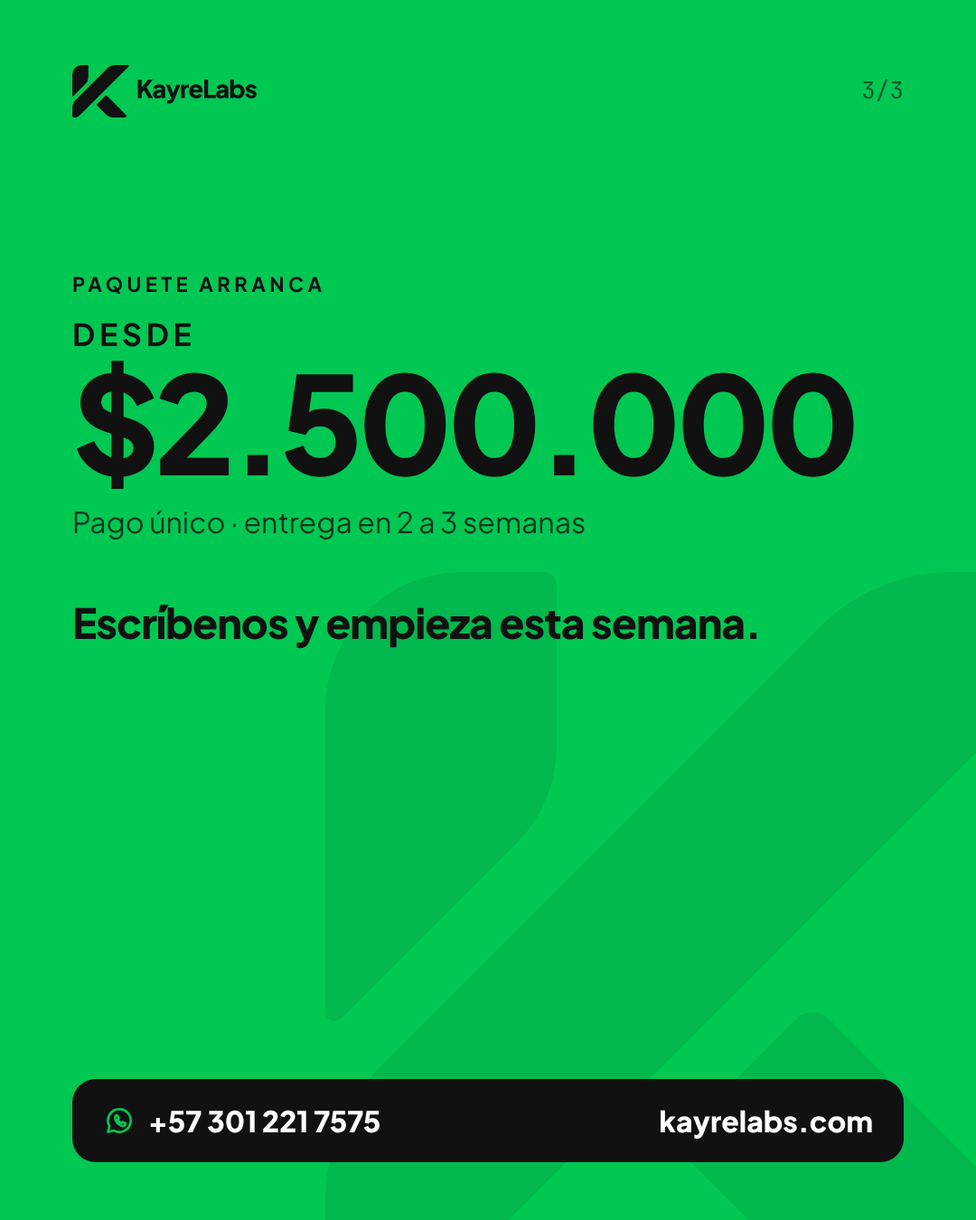
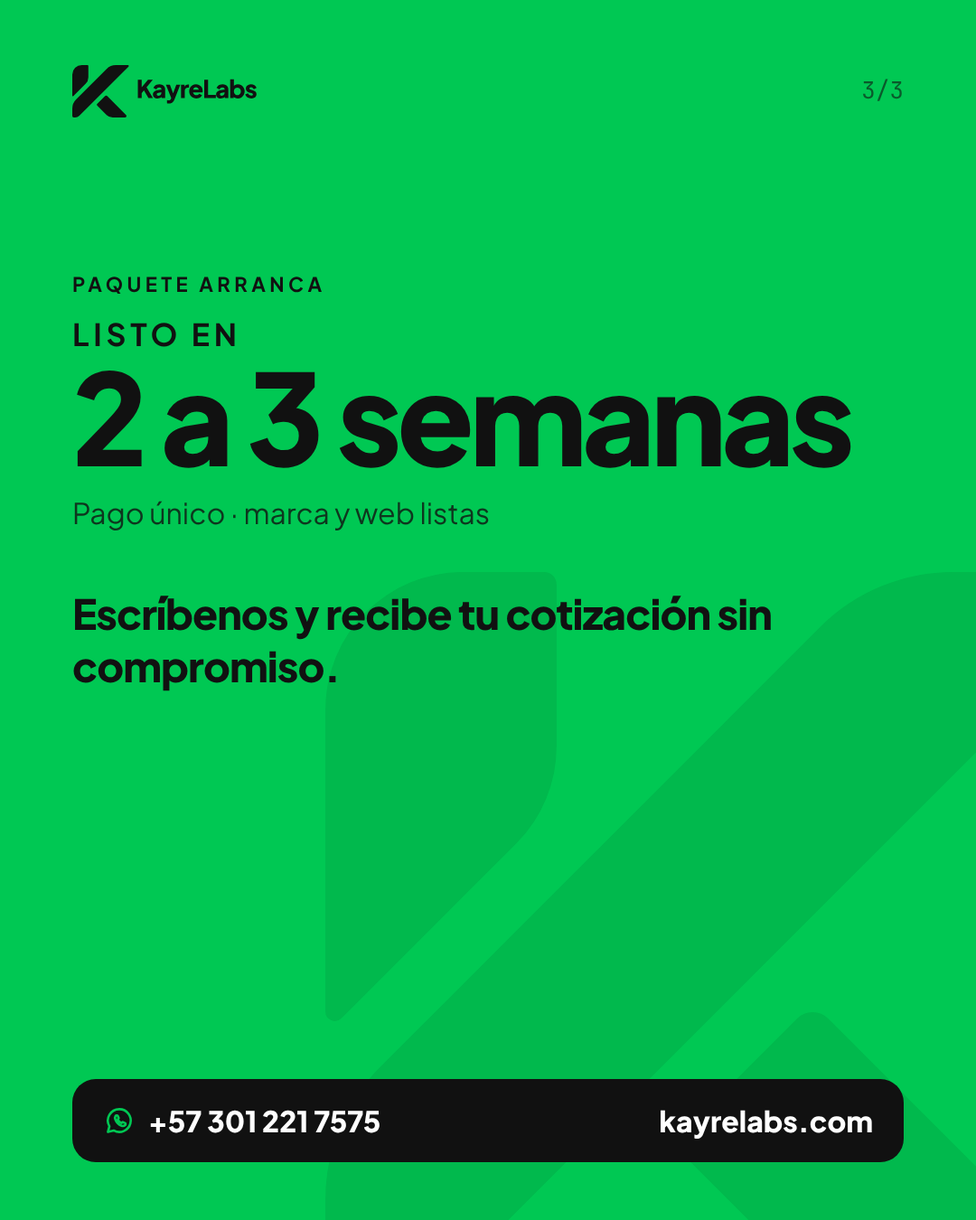
Precios privados: fuera del sitio, de las piezas de redes y del repositorio
- Paquetes y plataformas muestran tiempos de entrega y "cotiza sin
  compromiso" en lugar de montos.
- Piezas de redes, carruseles, historia e imágenes para compartir
  regeneradas sin precios.
- Se retira docs/oferta-comercial.md del repositorio público.

Claude-Session: https://claude.ai/code/session_01QGabQDkz8HkBDnq2V441rF

Changed region(s): [[0.0611, 0.2489, 0.8861, 0.4356], [0.0611, 0.4667, 0.7944, 0.56]]

diff --git a/scripts/graficos.js b/scripts/graficos.js
@@ -92,11 +92,11 @@ const fotosTienda = (tam) => ["gatos-sabiduria", "llaveros-calavera", "gatos-ena
 const OGS = {
   "og-image": og({ etiqueta: "Software · Impresión 3D · Electrónica", titulo: 'Software y productos <span class="verde">a la medida</span> de tu negocio',
     texto: "Marca, web y software para pymes y empresas. Piezas, domótica e IoT con impresión 3D.",
-    chips: [["tienda", "Paquetes desde $2.500.000"], ["check", "Demos en vivo"]],
+    chips: [["tienda", "Paquetes para pymes"], ["check", "Demos en vivo"]],
     arte: `<img src="${a("assets/ilustraciones/inicio.svg")}" style="width:540px">` }),
   "og-desarrollo": og({ etiqueta: "Desarrollo", titulo: 'Marca, web y software para tu <span class="verde">negocio</span>',
     texto: "Paquetes para pymes y aplicativos robustos para empresas.",
-    chips: [["tienda", "Desde $2.500.000"], ["empresa", "Para empresas"]],
+    chips: [["tienda", "Para pymes"], ["empresa", "Para empresas"]],
     arte: `<img src="${f(SAL + "/web/ecommerce-mockup.png")}" style="width:540px;margin-right:-30px">` }),
   "og-productos": og({ etiqueta: "Productos", titulo: 'Impresión 3D, domótica e <span class="verde">IoT</span>',
     texto: "Piezas a medida, kits para conectar tu casa y automatización para tu negocio.",
@@ -138,13 +138,13 @@ li { display: flex; gap: 16px; align-items: center; }
 `;
 
 const PAQ = {
-  arranca: { nombre: "Arranca", para: "Para el negocio que empieza", precio: "$2.500.000", nota: "Pago único · entrega en 2 a 3 semanas", oscuro: false,
+  arranca: { nombre: "Arranca", para: "Para el negocio que empieza", precio: "2 a 3 semanas", nota: "Pago único · cotiza sin compromiso", oscuro: false,
     incluye: ["Logo, paleta y tipografía", "Manual básico de marca", "Página web de 1 a 5 secciones", "Botón de WhatsApp y redes"],
     arte: `<div style="display:flex;align-items:center;justify-content:center;width:300px;height:300px;border-radius:70px;background:#e8faf0">${ico("bombillo", 170, "#00c853")}</div>` },
-  vende: { nombre: "Vende", para: "Para vender en línea", precio: "$3.600.000", nota: "+ mensualidad desde $150.000 · 4 a 6 semanas", oscuro: true, sello: "Recomendado",
+  vende: { nombre: "Vende", para: "Para vender en línea", precio: "4 a 6 semanas", nota: "Implementación + mensualidad · cotiza sin compromiso", oscuro: true, sello: "Recomendado",
     incluye: ["Marca + kit de 10 piezas para redes", "Tienda en línea con panel", "Pagos con Wompi y factura electrónica", "Carga de hasta 50 productos"],
     arte: `<img src="${f(SAL + "/web/ecommerce-mockup.png")}" style="width:700px;margin-right:-100px">` },
-  fideliza: { nombre: "Fideliza", para: "Para que tus clientes vuelvan", precio: "$4.100.000", nota: "+ piezas NFC y mensualidad · 4 a 6 semanas", oscuro: true,
+  fideliza: { nombre: "Fideliza", para: "Para que tus clientes vuelvan", precio: "4 a 6 semanas", nota: "Implementación + piezas NFC + mensualidad", oscuro: true,
     incluye: ["Todo lo del paquete Vende", "Enlace NFC con 10 piezas en 3D", "Pagos por Nequi, Daviplata y Bre-B", "Sellos de fidelización en caja"],
     arte: `<img src="${f(SAL + "/web/enlace-nfc-mockup.png")}" style="width:700px;margin-right:-100px">` },
 };
@@ -159,7 +159,7 @@ body { width: 1080px; height: 1350px; } .pieza { height: 1350px; }
 <p class="etq">Paquete para pymes</p>
 <h1>${p.nombre}</h1>
 <p class="sub">${p.para}</p>
-<div class="precio"><small>Desde</small><strong>${p.precio}</strong></div>
+<div class="precio"><small>Entrega</small><strong>${p.precio}</strong></div>
 <p class="nota">${p.nota}</p>
 <ul>${p.incluye.map((x) => `<li>${ico("check", 34, p.oscuro ? "#00c853" : "#007a33")} ${x}</li>`).join("")}</ul>
 </div>
@@ -190,7 +190,7 @@ body { width: 1080px; height: 1350px; } .pieza { height: 1350px; }
 <img class="logo" src="${LOGO_NEG}">
 <div style="margin-top:46px"><h2>Lo digital y lo físico <span class="verde">en un solo lugar</span></h2></div>
 <div class="ramas">
-<div class="rama"><img src="${a("assets/ilustraciones/desarrollo.svg")}"><div><p class="etq">Desarrollo</p><h3>Marca, web y software para tu negocio</h3><p>Paquetes para pymes desde $2.500.000 y aplicativos para empresas.</p></div></div>
+<div class="rama"><img src="${a("assets/ilustraciones/desarrollo.svg")}"><div><p class="etq">Desarrollo</p><h3>Marca, web y software para tu negocio</h3><p>Paquetes para pymes y aplicativos para empresas.</p></div></div>
 <div class="rama"><img src="${a("assets/ilustraciones/impresion-3d.svg")}"><div><p class="etq">Productos</p><h3>Impresión 3D, domótica e IoT</h3><p>Piezas a medida, kits para tu casa y automatización para tu negocio.</p></div></div>
 </div>
 ${pieRed(true)}
@@ -208,9 +208,9 @@ body { width: 1080px; height: 1920px; } .pieza { height: 1920px; padding: 110px 
 <h1 style="font-size:96px">Software y productos <span class="verde">a la medida</span></h1>
 <p class="sub">Marca, página y tienda en línea para tu negocio.</p>
 <div class="lista">
-<div class="fila"><strong>Arranca</strong><span>desde <b>$2,5 M</b></span></div>
-<div class="fila dest"><strong>Vende</strong><span>desde <b>$3,6 M</b></span></div>
-<div class="fila"><strong>Fideliza</strong><span>desde <b>$4,1 M</b></span></div>
+<div class="fila"><strong>Arranca</strong><span><b>Marca + web</b></span></div>
+<div class="fila dest"><strong>Vende</strong><span><b>Tienda en línea</b></span></div>
+<div class="fila"><strong>Fideliza</strong><span><b>Tienda + NFC</b></span></div>
 </div>
 ${pieRed(true)}
 </div></body></html>`;
@@ -239,7 +239,7 @@ const v2 = {
 <p class="etq" style="color:#111">Paquete Arranca</p>
 <h1 style="font-size:112px">¿Tu negocio aún no tiene página web?</h1>
 <p class="sub" style="color:rgba(17,17,17,.8);max-width:820px">Marca + página web con WhatsApp, listas en 2 a 3 semanas.</p>
-<div class="precio-chip"><small>Desde</small><strong>$2.500.000</strong></div>
+<div class="precio-chip"><small>Cotiza</small><strong>sin compromiso</strong></div>
 </div>
 ${pieRed(false)}
 </div></body></html>`,
@@ -251,7 +251,7 @@ ${pieRed(false)}
 <p class="etq">Paquete Vende</p>
 <h1 style="font-size:96px">Vende 24/7 desde tu propia tienda</h1>
 <p class="sub">Sin depender de un marketplace. Con pagos Wompi y factura electrónica.</p>
-<div class="precio-chip"><small>Desde</small><strong>$3,6 M</strong></div>
+<div class="precio-chip"><small>Cotiza</small><strong>gratis</strong></div>
 </div>
 ${pieRed(false)}
 </div></body></html>`,
@@ -266,7 +266,7 @@ ${pieRed(false)}
 <p class="etq">Paquete Fideliza</p>
 <h1 style="font-size:96px">Un toque y tu cliente <span class="verde">suma un sello</span></h1>
 <p class="sub">Piezas NFC impresas en 3D con tu tarjeta digital y fidelización.</p>
-<div class="precio-chip" style="background:#00c853;color:#111"><small>Desde</small><strong style="color:#111">$4,1 M</strong></div>
+<div class="precio-chip" style="background:#00c853;color:#111"><small>Cotiza</small><strong style="color:#111">gratis</strong></div>
 </div>
 ${pieRed(true)}
 </div></body></html>`,
@@ -275,13 +275,13 @@ ${pieRed(true)}
 const CAR = {
   arranca: { nombre: "Arranca", gancho: 'Tu negocio merece <span class="verde">verse profesional</span>', icono: "bombillo",
     incluye: [["diseno", "Logo, paleta y tipografía"], ["capas", "Manual básico de marca"], ["desarrollo", "Página web de 1 a 5 secciones"], ["whatsapp", "Botón de WhatsApp y redes"]],
-    precio: "$2.500.000", nota: "Pago único · entrega en 2 a 3 semanas" },
+    precio: "2 a 3 semanas", nota: "Pago único · marca y web listas" },
   vende: { nombre: "Vende", gancho: 'Tu tienda en línea <span class="verde">en 4 a 6 semanas</span>', icono: "tienda",
     incluye: [["diseno", "Marca + 10 piezas para redes"], ["tienda", "Tienda con panel de administración"], ["check", "Pagos Wompi y factura electrónica"], ["capas", "Carga de hasta 50 productos"]],
-    precio: "$3.600.000", nota: "+ mensualidad desde $150.000" },
+    precio: "4 a 6 semanas", nota: "Implementación + mensualidad de hosting y soporte" },
   fideliza: { nombre: "Fideliza", gancho: 'Clientes que vuelven, <span class="verde">con un toque NFC</span>', icono: "nfc",
     incluye: [["tienda", "Todo lo del paquete Vende"], ["impresion-3d", "10 piezas NFC impresas en 3D"], ["celular", "Pagos Nequi, Daviplata y Bre-B"], ["nfc", "Sellos canjeables en caja"]],
-    precio: "$4.100.000", nota: "+ piezas NFC y mensualidad" },
+    precio: "4 a 6 semanas", nota: "Implementación + piezas NFC + mensualidad" },
 };
 const CAR_CSS = `body { width: 1080px; height: 1350px; } .pieza { height: 1350px; }
 .contador { position: absolute; right: 80px; top: 82px; font-family: "JBM", monospace; font-size: 26px; color: rgba(255,255,255,.6); }
@@ -303,10 +303,10 @@ const carrusel = (c) => [
   `<!doctype html><html><head><style>${BASE}${RED_CSS}${CAR_CSS}${V2_CSS}</style></head><body><div class="pieza verde-fondo" style="position:relative">
 <img class="logo" src="${LOGO_MONO}"><span class="contador" style="color:rgba(17,17,17,.6)">3/3</span>
 <div style="margin-top:170px"><p class="etq" style="color:#111">Paquete ${c.nombre}</p>
-<p style="font-size:34px;font-weight:700;letter-spacing:.14em;text-transform:uppercase">Desde</p>
-<h1 style="font-size:150px">${c.precio}</h1>
+<p style="font-size:34px;font-weight:700;letter-spacing:.14em;text-transform:uppercase">Listo en</p>
+<h1 style="font-size:140px">${c.precio}</h1>
 <p class="sub" style="color:rgba(17,17,17,.8)">${c.nota}</p>
-<p style="font-size:46px;font-weight:800;margin-top:60px;letter-spacing:-.02em">Escríbenos y empieza esta semana.</p></div>
+<p style="font-size:46px;font-weight:800;margin-top:60px;letter-spacing:-.02em">Escríbenos y recibe tu cotización sin compromiso.</p></div>
 ${pieRed(false)}</div></body></html>`,
 ];
 

diff --git a/public/desarrollo.html b/public/desarrollo.html
@@ -4,7 +4,7 @@
   <meta charset="UTF-8">
   <meta name="viewport" content="width=device-width, initial-scale=1">
   <title>Desarrollo — Marca, web y software para tu negocio | KayreLabs</title>
-  <meta name="description" content="Paquetes con precio para pymes (marca, web y tienda en línea) y aplicativos para empresas: garantías, ofertas y desarrollo a la medida.">
+  <meta name="description" content="Paquetes para pymes (marca, web y tienda en línea) y aplicativos para empresas: garantías, ofertas y desarrollo a la medida.">
   <meta name="theme-color" content="#ffffff">
   <link rel="icon" href="favicon.ico" sizes="48x48">
   <link rel="icon" href="assets/brand/favicon.svg" type="image/svg+xml">
@@ -13,7 +13,7 @@
   <meta property="og:type" content="website">
   <meta property="og:site_name" content="KayreLabs">
   <meta property="og:title" content="Desarrollo — Marca, web y software para tu negocio | KayreLabs">
-  <meta property="og:description" content="Paquetes con precio para pymes (marca, web y tienda en línea) y aplicativos para empresas: garantías, ofertas y desarrollo a la medida.">
+  <meta property="og:description" content="Paquetes para pymes (marca, web y tienda en línea) y aplicativos para empresas: garantías, ofertas y desarrollo a la medida.">
   <meta property="og:image" content="https://www.kayrelabs.com/assets/brand/og-desarrollo.png">
   <meta name="twitter:card" content="summary_large_image">
   <link rel="preload" href="assets/fonts/plus-jakarta-sans-latin-wght-normal.woff2" as="font" type="font/woff2" crossorigin>
@@ -48,7 +48,7 @@
         <div class="col-lg-6">
           <p class="etiqueta"><span class="icono i-desarrollo" aria-hidden="true"></span> Desarrollo</p>
           <h1>Marca, web y software para que tu negocio <span class="verde">crezca</span></h1>
-          <p class="lead">Paquetes con precio claro para pymes y emprendedores, y aplicativos robustos para las operaciones de grandes empresas.</p>
+          <p class="lead">Paquetes listos para pymes y emprendedores, y aplicativos robustos para las operaciones de grandes empresas.</p>
           <ul class="lab-chips">
             <li><a href="#pymes"><span class="icono i-tienda" aria-hidden="true"></span> Pymes y emprendedores</a></li>
             <li><a href="#empresas"><span class="icono i-empresa" aria-hidden="true"></span> Empresas</a></li>
@@ -70,7 +70,7 @@
       <div class="container">
         <p class="etiqueta"><span class="icono i-tienda" aria-hidden="true"></span> Pymes y emprendedores</p>
         <h2 class="titulo-seccion">Paquetes listos para arrancar</h2>
-        <p class="subtitulo-seccion mb-5">Marca, página y software en un solo paquete, con precio desde el primer día. Después de la entrega te acompañamos con hosting, soporte y ajustes.</p>
+        <p class="subtitulo-seccion mb-5">Marca, página y software en un solo paquete, con alcance y tiempos claros desde el primer día. Después de la entrega te acompañamos con hosting, soporte y ajustes.</p>
         <div class="row g-4 pt-lg-2">
           <div class="col-md-6 col-lg-4">
             <article class="plan">
@@ -79,8 +79,8 @@
                 <span class="icono-caja"><span class="icono i-bombillo" aria-hidden="true"></span></span>
                 <div><h3>Arranca</h3><p class="plan-para">Para el negocio que empieza</p></div>
               </div>
-              <p class="precio"><small>Desde</small><strong>$2.500.000</strong></p>
-              <p class="precio-nota">Pago único · entrega en 2 a 3 semanas</p>
+              <p class="precio"><small>Entrega</small><strong>2 a 3 semanas</strong></p>
+              <p class="precio-nota">Pago único</p>
               <ul>
                 <li><span class="icono i-check" aria-hidden="true"></span><span>Logo, paleta y tipografía</span></li>
                 <li><span class="icono i-check" aria-hidden="true"></span><span>Manual básico de marca</span></li>
@@ -97,8 +97,8 @@
                 <span class="icono-caja"><span class="icono i-tienda" aria-hidden="true"></span></span>
                 <div><h3>Vende</h3><p class="plan-para">Para vender en línea</p></div>
               </div>
-              <p class="precio"><small>Desde</small><strong>$3.600.000</strong></p>
-              <p class="precio-nota">+ mensualidad desde $150.000 · 4 a 6 semanas</p>
+              <p class="precio"><small>Entrega</small><strong>4 a 6 semanas</strong></p>
+              <p class="precio-nota">Implementación + mensualidad de hosting y soporte</p>
               <ul>
                 <li><span class="icono i-check" aria-hidden="true"></span><span>Marca completa (todo lo de Arranca)</span></li>
                 <li><span class="icono i-check" aria-hidden="true"></span><span>Kit de 10 piezas para redes</span></li>
@@ -116,8 +116,8 @@
                 <span class="icono-caja"><span class="icono i-nfc" aria-hidden="true"></span></span>
                 <div><h3>Fideliza</h3><p class="plan-para">Para que tus clientes vuelvan</p></div>
               </div>
-              <p class="precio"><small>Desde</small><strong>$4.100.000</strong></p>
-              <p class="precio-nota">+ piezas NFC y mensualidad · 4 a 6 semanas</p>
+              <p class="precio"><small>Entrega</small><strong>4 a 6 semanas</strong></p>
+              <p class="precio-nota">Implementación + piezas NFC + mensualidad</p>
               <ul>
                 <li><span class="icono i-check" aria-hidden="true"></span><span>Todo lo de Vende</span></li>
                 <li><span class="icono i-check" aria-hidden="true"></span><span>Enlace NFC con 10 piezas impresas en 3D</span></li>
@@ -128,7 +128,7 @@
             </article>
           </div>
         </div>
-        <p class="nota-precios">Precios en pesos colombianos, sin IVA. Las plataformas también se contratan por separado.</p>
+        <p class="nota-precios">Cada paquete se cotiza según tu negocio, sin compromiso. Las plataformas también se contratan por separado.</p>
       </div>
     </section>
 
@@ -136,7 +136,7 @@
       <div class="container">
         <p class="etiqueta">También por separado</p>
         <h2 class="titulo-seccion">Plataformas listas para tu negocio</h2>
-        <p class="subtitulo-seccion mb-5">Software probado que adaptamos a tu marca. Se paga una implementación y una mensualidad que cubre hosting, soporte y actualizaciones.</p>
+        <p class="subtitulo-seccion mb-5">Software probado que adaptamos a tu marca: una implementación y una mensualidad que cubre hosting, soporte y actualizaciones.</p>
         <div class="row g-4">
           <div class="col-md-6">
             <article class="producto">
@@ -150,7 +150,7 @@
                   <li><span class="icono i-check" aria-hidden="true"></span><span>Pagos con Wompi y factura electrónica</span></li>
                   <li><span class="icono i-check" aria-hidden="true"></span><span>Carga de hasta 50 productos y capacitación</span></li>
                 </ul>
-                <p class="producto-precio"><strong>Implementación desde $1.750.000</strong>+ mensualidad desde $150.000 (hosting, soporte y actualizaciones)</p>
+                <p class="producto-precio"><strong>Implementación + mensualidad</strong>La mensualidad cubre hosting, soporte y actualizaciones</p>
                 <div class="producto-acciones">
                   <a class="btn btn-primary btn-sm" href="contacto.html" data-whatsapp="Hola KayreLabs, me interesa Plataforma Ecommerce">Cotizar <span class="icono i-flecha" aria-hidden="true"></span></a>
                   <a class="btn btn-outline-dark btn-sm" href="https://ecommerce-demo.kayrelabs.com/" target="_blank" rel="noopener">Ver demo ↗</a>
@@ -314,7 +314,7 @@
       </div>
       <div class="pie-base">
         <span>© <span id="anio"></span> KayreLabs · <a href="marca.html">Identidad de marca</a></span>
-        <span>Precios en pesos colombianos, sin IVA</span>
+        <span>Minimalista · Adaptable · Futura</span>
       </div>
     </div>
   </footer>

diff --git a/public/index.html b/public/index.html
@@ -78,7 +78,7 @@
               <img class="rama-arte" src="assets/ilustraciones/desarrollo.svg" alt="" width="480" height="420" loading="lazy">
               <p class="etiqueta"><span class="icono i-desarrollo" aria-hidden="true"></span> Desarrollo</p>
               <h3>Marca, web y software para tu negocio</h3>
-              <p>Paquetes con precio claro para pymes y aplicativos robustos para empresas.</p>
+              <p>Paquetes para pymes y aplicativos robustos para empresas.</p>
               <ul class="rama-lista">
                 <li><span class="icono i-check" aria-hidden="true"></span><span>Paquetes para pymes y emprendedores</span></li>
                 <li><span class="icono i-check" aria-hidden="true"></span><span>Plataformas listas: Ecommerce y Enlace NFC</span></li>
@@ -110,8 +110,8 @@
         <div class="cabecera-seccion">
           <div>
             <p class="etiqueta">Pymes y emprendedores</p>
-            <h2 class="titulo-seccion">Paquetes con precio claro</h2>
-            <p class="subtitulo-seccion">Elige por dónde empezar. Cada paquete incluye la marca, la página y el software que necesita esa etapa de tu negocio.</p>
+            <h2 class="titulo-seccion">Paquetes listos para tu negocio</h2>
+            <p class="subtitulo-seccion">Elige por dónde empezar. Cada paquete incluye la marca, la página y el software que necesita esa etapa de tu negocio. Te enviamos la cotización por WhatsApp.</p>
           </div>
           <a class="enlace-mas" href="desarrollo.html#pymes">Ver todos los detalles <span class="icono i-flecha" aria-hidden="true"></span></a>
         </div>
@@ -123,8 +123,8 @@
                 <span class="icono-caja"><span class="icono i-bombillo" aria-hidden="true"></span></span>
                 <div><h3>Arranca</h3><p class="plan-para">Para el negocio que empieza</p></div>
               </div>
-              <p class="precio"><small>Desde</small><strong>$2.500.000</strong></p>
-              <p class="precio-nota">Pago único · entrega en 2 a 3 semanas</p>
+              <p class="precio"><small>Entrega</small><strong>2 a 3 semanas</strong></p>
+              <p class="precio-nota">Pago único</p>
               <ul>
                 <li><span class="icono i-check" aria-hidden="true"></span><span>Logo, paleta y tipografía</span></li>
                 <li><span class="icono i-check" aria-hidden="true"></span><span>Manual básico de marca</span></li>
@@ -141,8 +141,8 @@
                 <span class="icono-caja"><span class="icono i-tienda" aria-hidden="true"></span></span>
                 <div><h3>Vende</h3><p class="plan-para">Para vender en línea</p></div>
               </div>
-              <p class="precio"><small>Desde</small><strong>$3.600.000</strong></p>
-              <p class="precio-nota">+ mensualidad desde $150.000 · 4 a 6 semanas</p>
+              <p class="precio"><small>Entrega</small><strong>4 a 6 semanas</strong></p>
+              <p class="precio-nota">Implementación + mensualidad de hosting y soporte</p>
               <ul>
                 <li><span class="icono i-check" aria-hidden="true"></span><span>Marca completa (todo lo de Arranca)</span></li>
                 <li><span class="icono i-check" aria-hidden="true"></span><span>Kit de 10 piezas para redes</span></li>
@@ -160,8 +160,8 @@
                 <span class="icono-caja"><span class="icono i-nfc" aria-hidden="true"></span></span>
                 <div><h3>Fideliza</h3><p class="plan-para">Para que tus clientes vuelvan</p></div>
               </div>
-              <p class="precio"><small>Desde</small><strong>$4.100.000</strong></p>
-              <p class="precio-nota">+ piezas NFC y mensualidad · 4 a 6 semanas</p>
+              <p class="precio"><small>Entrega</small><strong>4 a 6 semanas</strong></p>
+              <p class="precio-nota">Implementación + piezas NFC + mensualidad</p>
               <ul>
                 <li><span class="icono i-check" aria-hidden="true"></span><span>Todo lo de Vende</span></li>
                 <li><span class="icono i-check" aria-hidden="true"></span><span>Enlace NFC con 10 piezas impresas en 3D</span></li>
@@ -172,7 +172,7 @@
             </article>
           </div>
         </div>
-        <p class="nota-precios">Precios en pesos colombianos, sin IVA. Las plataformas también se contratan por separado.</p>
+        <p class="nota-precios">Cada paquete se cotiza según tu negocio, sin compromiso. Las plataformas también se contratan por separado.</p>
       </div>
     </section>
 
@@ -199,7 +199,7 @@
                   <li><span class="icono i-check" aria-hidden="true"></span><span>Pagos con Wompi y factura electrónica</span></li>
                   <li><span class="icono i-check" aria-hidden="true"></span><span>Carga de hasta 50 productos y capacitación</span></li>
                 </ul>
-                <p class="producto-precio"><strong>Implementación desde $1.750.000</strong>+ mensualidad desde $150.000 (hosting, soporte y actualizaciones)</p>
+                <p class="producto-precio"><strong>Implementación + mensualidad</strong>La mensualidad cubre hosting, soporte y actualizaciones</p>
                 <div class="producto-acciones">
                   <a class="btn btn-primary btn-sm" href="contacto.html" data-whatsapp="Hola KayreLabs, me interesa Plataforma Ecommerce">Cotizar <span class="icono i-flecha" aria-hidden="true"></span></a>
                   <a class="btn btn-outline-dark btn-sm" href="https://ecommerce-demo.kayrelabs.com/" target="_blank" rel="noopener">Ver demo ↗</a>
@@ -414,7 +414,7 @@
       </div>
       <div class="pie-base">
         <span>© <span id="anio"></span> KayreLabs · <a href="marca.html">Identidad de marca</a></span>
-        <span>Precios en pesos colombianos, sin IVA</span>
+        <span>Minimalista · Adaptable · Futura</span>
       </div>
     </div>
   </footer>

diff --git a/public/contacto.html b/public/contacto.html
@@ -144,7 +144,7 @@
       </div>
       <div class="pie-base">
         <span>© <span id="anio"></span> KayreLabs · <a href="marca.html">Identidad de marca</a></span>
-        <span>Precios en pesos colombianos, sin IVA</span>
+        <span>Minimalista · Adaptable · Futura</span>
       </div>
     </div>
   </footer>

diff --git a/public/diseno.html b/public/diseno.html
@@ -130,7 +130,7 @@
       </div>
       <div class="pie-base">
         <span>© <span id="anio"></span> KayreLabs · <a href="marca.html">Identidad de marca</a></span>
-        <span>Precios en pesos colombianos, sin IVA</span>
+        <span>Minimalista · Adaptable · Futura</span>
       </div>
     </div>
   </footer>

diff --git a/public/marca.html b/public/marca.html
@@ -355,7 +355,7 @@
       </div>
       <div class="pie-base">
         <span>© <span id="anio"></span> KayreLabs · <a href="marca.html">Identidad de marca</a></span>
-        <span>Precios en pesos colombianos, sin IVA</span>
+        <span>Minimalista · Adaptable · Futura</span>
       </div>
     </div>
   </footer>

diff --git a/public/productos.html b/public/productos.html
@@ -230,7 +230,7 @@
       </div>
       <div class="pie-base">
         <span>© <span id="anio"></span> KayreLabs · <a href="marca.html">Identidad de marca</a></span>
-        <span>Precios en pesos colombianos, sin IVA</span>
+        <span>Minimalista · Adaptable · Futura</span>
       </div>
     </div>
   </footer>

diff --git a/public/tienda.html b/public/tienda.html
@@ -117,7 +117,7 @@
       </div>
       <div class="pie-base">
         <span>© <span id="anio"></span> KayreLabs · <a href="marca.html">Identidad de marca</a></span>
-        <span>Precios en pesos colombianos, sin IVA</span>
+        <span>Minimalista · Adaptable · Futura</span>
       </div>
     </div>
   </footer>

diff --git a/README.md b/README.md
@@ -11,8 +11,7 @@ Sitio comercial de KayreLabs, con dos ramas: **Desarrollo** (paquetes para pymes
 | `scripts/vendor.js` | Copia el JS de Bootstrap y las fuentes desde `node_modules` a `public/` |
 | `wrangler.jsonc` | Configuración de Cloudflare: publica la carpeta `public/` |
 | `server.js` | Servidor local mínimo, solo para previsualizar (`npm start`) |
-| `docs/oferta-comercial.md` | Paquetes, precios, tarifa por hora y pendientes de la oferta. No se publica |
-| `docs/redes/` | Piezas para redes (posts 1080 × 1350 e historia 1080 × 1920) con paquetes, tienda y las dos ramas. No se publica |
+| `docs/redes/` | Piezas para redes (posts, carruseles 1080 × 1350 e historia 1080 × 1920) con paquetes, tienda y las dos ramas, sin precios. No se publica |
 | `scripts/graficos.js` | Genera mockups, imágenes para compartir (OG) y piezas para redes desde plantillas HTML. Requiere Playwright: `node scripts/graficos.js salida/` |
 | `docs/marca/` | Kit de marca: guía en Markdown y PDF, y copia de logotipos, iconos, ilustraciones, fondos y tipografías. No se publica en el sitio |
 
@@ -37,7 +36,7 @@ El estado de cada despliegue está en Cloudflare → Workers y Pages → kayrela
 
 - **Páginas:** `index.html` (inicio), `desarrollo.html` (paquetes, plataformas y empresas), `productos.html` (piezas a medida, domótica, IoT), `tienda.html`, `diseno.html` (portafolio de marca), `contacto.html` (cotizar). `kayre-labs.html`, `impresion-3d.html`, `electronica.html` y `domotica.html` solo redirigen a `productos.html`.
 - **WhatsApp:** escribe el número en `WHATSAPP` al inicio de `public/js/main.js` (con indicativo, sin `+`: `573001234567`). Mientras esté vacío, los botones «Cotizar» y «Pedir» llevan a `contacto.html`; con número, abren WhatsApp con el mensaje de su atributo `data-whatsapp`.
-- **Precios:** los paquetes están en `index.html` y `desarrollo.html` (cambia ambos); las plataformas también. Las piezas de `docs/redes/` y `og-desarrollo.png` también muestran precios: regenéralas con `scripts/graficos.js` (los precios están al inicio de las plantillas). Referencia y cálculo en `docs/oferta-comercial.md`.
+- **Precios:** son privados y no se publican en el sitio, en las piezas de redes ni en este repositorio (que es público). Los paquetes muestran tiempos de entrega y los botones llevan a cotizar por WhatsApp. La lista de precios se maneja fuera del repo.
 - **Tienda:** `public/data/tienda.json`. Cada artículo lleva `nombre`, `categoria` (los filtros se crean solos), `descripcion`, `imagen`, `fotos` y `precio` (número en pesos, o `null` para «Precio a consultar»).
 
 - **Proyectos:** `public/data/proyectos.json`. Cada elemento lleva `area` (`diseno`, `electronica`, `desarrollo` o `impresion-3d`), `categoria`, `titulo`, `descripcion` e `imagen`. Las imágenes viven en `public/assets/img/`. Opcionales: `enlace` (botón «Ver demo ↗»; su texto se cambia con `textoEnlace`), `etiquetas` y `galeria` (lista de `{video, poster, titulo, controles}` o `{imagen, titulo}`, con los archivos en `public/assets/media/<proyecto>/`).
